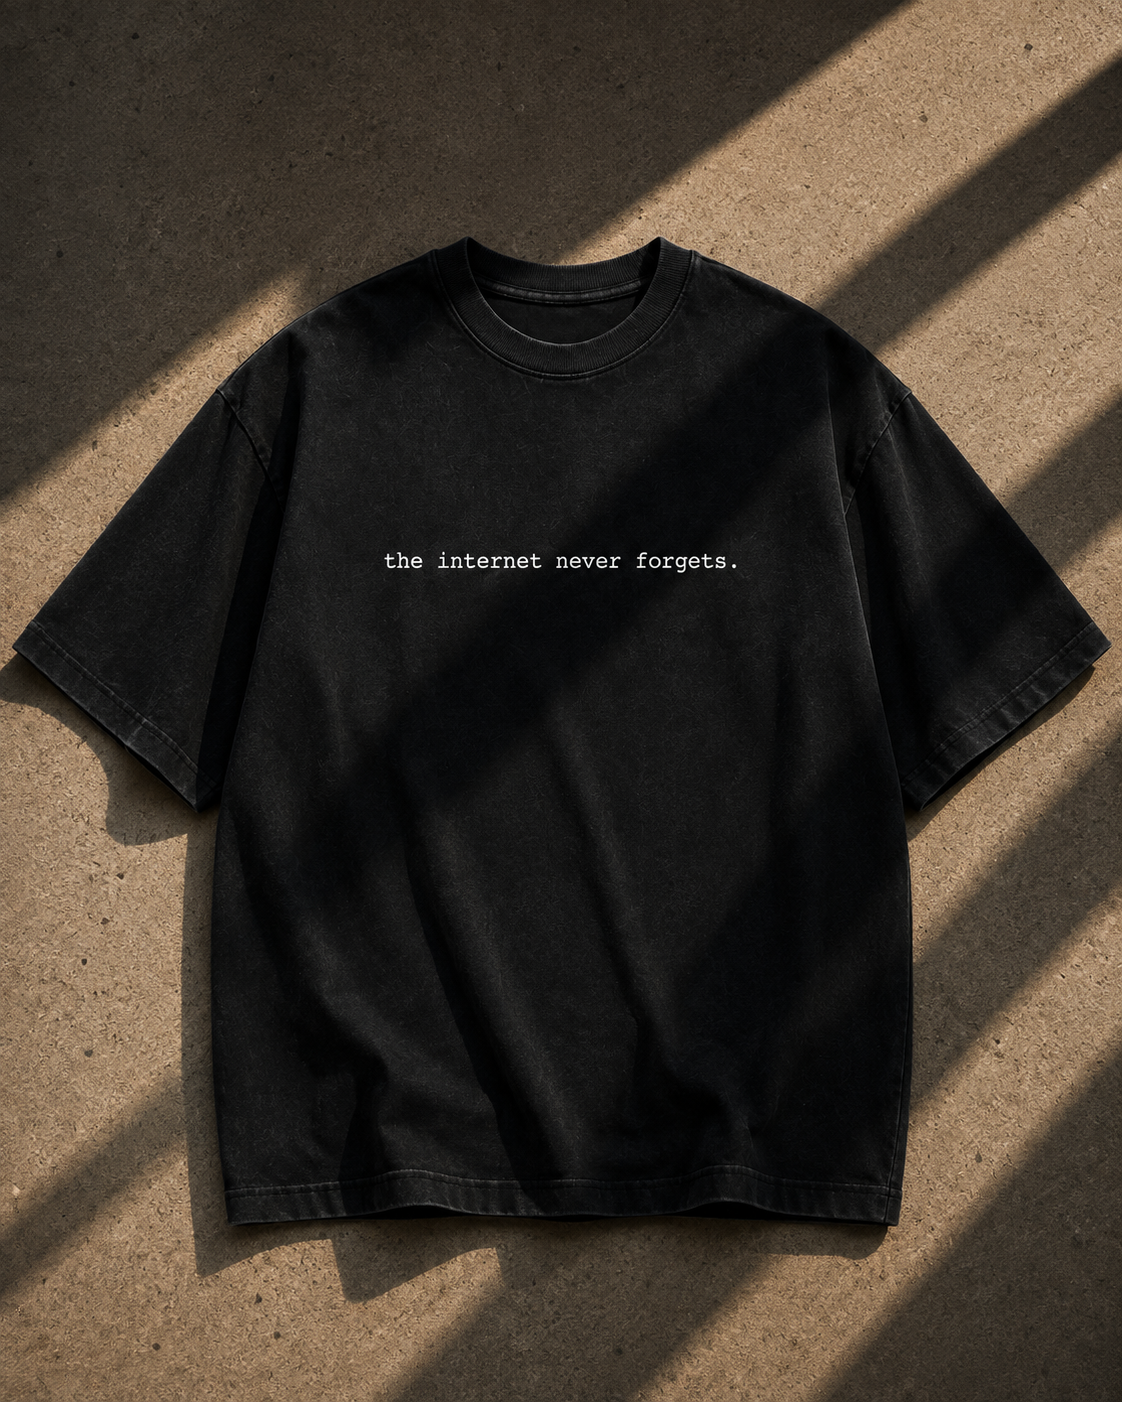
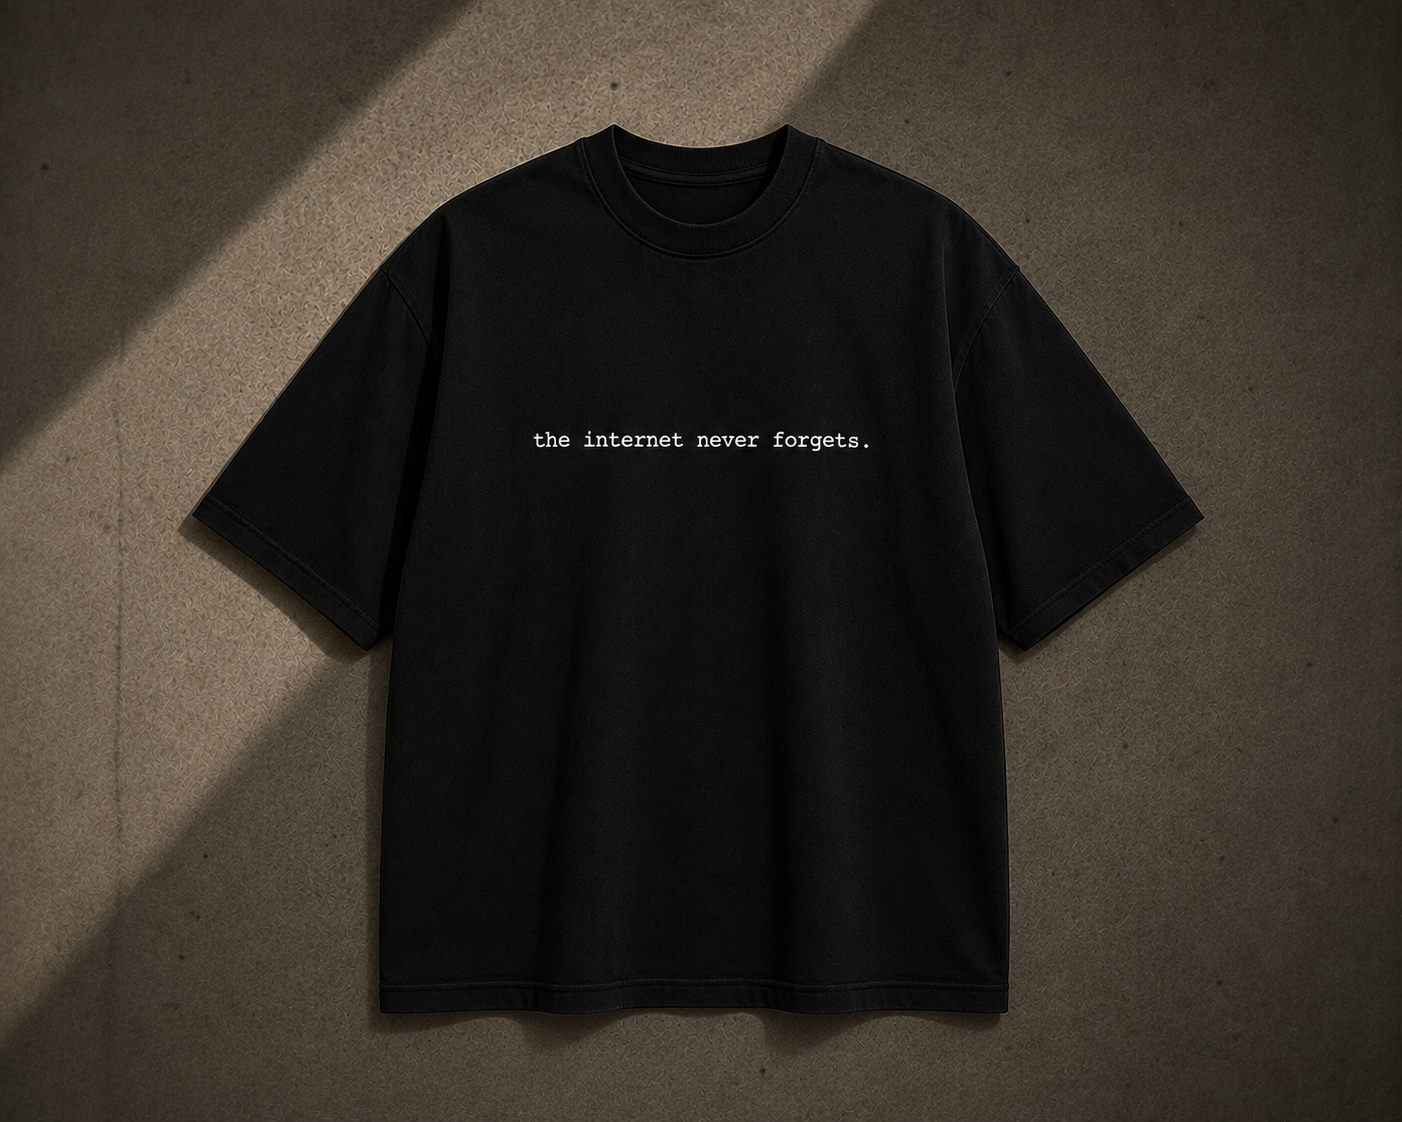
Refresh product details and contact information

diff --git a/index.html b/index.html
@@ -67,7 +67,7 @@
         .limited-offer { display: inline-block; margin-top: 7px; padding: 4px 6px; border: 1px solid #FF3B30; color: #FF3B30; font-size: 9px; letter-spacing: .07em; }
         .detail-copy { margin: 24px 0; font-size: 12px; line-height: 1.75; }
         .detail-list { margin: 0 0 24px; padding: 14px 0; border-top: 1px solid #D4C5A9; border-bottom: 1px solid #D4C5A9; font-size: 11px; line-height: 1.9; list-style: none; }
-        .size-picker { display: grid; grid-template-columns: repeat(4, 1fr); gap: 7px; margin: 10px 0 20px; }
+        .size-picker { display: grid; grid-template-columns: repeat(3, 1fr); gap: 7px; margin: 10px 0 20px; }
         .size-picker button { padding: 11px 5px; border: 1px solid #D4C5A9; background: #0A0A0A; color: #D4C5A9; cursor: pointer; font: inherit; font-size: 11px; }
         .size-picker button[aria-pressed="true"] { background: #D4C5A9; color: #0A0A0A; }
         .size-picker button:disabled { cursor: not-allowed; opacity: .45; text-decoration: line-through; }
@@ -203,7 +203,6 @@
                         <span class="border border-borderGray px-2 py-1 text-gray-400">S</span>
                         <span class="border border-borderGray px-2 py-1 text-gray-400">M</span>
                         <span class="border border-borderGray px-2 py-1 text-gray-400">L</span>
-                        <span class="border border-borderGray px-2 py-1 text-gray-400 line-through">XL / SOLD OUT</span>
                     </div>
                     <button type="button" class="w-full bg-white text-black text-xs font-bold py-3.5 text-center hover:bg-errorRed hover:text-systemBlack transition tracking-widest">VIEW T-SHIRT</button>
                 </div>
@@ -224,7 +223,6 @@
                         <span class="border border-borderGray px-2 py-1 text-gray-400">S</span>
                         <span class="border border-borderGray px-2 py-1 text-gray-400">M</span>
                         <span class="border border-borderGray px-2 py-1 text-gray-400">L</span>
-                        <span class="border border-borderGray px-2 py-1 text-gray-400 line-through">XL / SOLD OUT</span>
                     </div>
                     <button type="button" class="w-full bg-white text-black text-xs font-bold py-3.5 text-center hover:bg-errorRed hover:text-systemBlack transition tracking-widest">VIEW T-SHIRT</button>
                 </div>
@@ -233,19 +231,18 @@
             <article class="border border-borderGray bg-cardDark flex flex-col group product-trigger" data-product="internet" tabindex="0" role="button" aria-label="View The Internet Never Forgets t-shirt">
                 <div class="aspect-[4/5] bg-black relative overflow-hidden flex items-center justify-center border-b border-borderGray">
                     <img src="img/sku3-model-front.png" alt="The Internet Never Forgets t-shirt" class="w-full h-full object-cover">
-                    <div class="absolute top-3 left-3 bg-systemBlack border border-borderGray text-[10px] px-2 py-1 text-gray-400">FADED BLACK</div>
+                    <div class="absolute top-3 left-3 bg-systemBlack border border-borderGray text-[10px] px-2 py-1 text-gray-400">BLACK</div>
                 </div>
                 <div class="p-6 flex flex-col flex-grow">
                     <div class="flex justify-between items-start mb-2 gap-2">
                         <h3 class="font-bold text-sm tracking-wide">THE INTERNET NEVER FORGETS</h3>
                         <span class="text-errorRed font-bold text-sm text-right"><s class="text-gray-400 font-normal">₹1699</s><br>₹899</span>
                     </div>
-                    <p class="text-xs text-gray-400 mb-6 flex-grow">A browser-history warning for people who never clear the cache.</p>
+                    <p class="text-xs text-gray-400 mb-6 flex-grow">A clean black tee for people who know the browser history keeps receipts. No fade, no acid wash.</p>
                     <div class="flex gap-1.5 mb-6 text-[10px]">
                         <span class="border border-borderGray px-2 py-1 text-gray-400">S</span>
                         <span class="border border-borderGray px-2 py-1 text-gray-400">M</span>
                         <span class="border border-borderGray px-2 py-1 text-gray-400">L</span>
-                        <span class="border border-borderGray px-2 py-1 text-gray-400 line-through">XL / SOLD OUT</span>
                     </div>
                     <button type="button" class="w-full bg-white text-black text-xs font-bold py-3.5 text-center hover:bg-errorRed hover:text-systemBlack transition tracking-widest">VIEW T-SHIRT</button>
                 </div>
@@ -262,7 +259,7 @@
                         <span class="text-errorRed font-bold text-sm text-right"><s class="text-gray-400 font-normal">₹1699</s><br>₹999</span>
                     </div>
                     <p class="text-xs text-gray-400 mb-6 flex-grow">“Sonam, it’s done, bro.” Minimal front. Very non-minimal back.</p>
-                    <div class="flex gap-1.5 mb-6 text-[10px]"><span class="border border-borderGray px-2 py-1 text-gray-400">S</span><span class="border border-borderGray px-2 py-1 text-gray-400">M</span><span class="border border-borderGray px-2 py-1 text-gray-400">L</span><span class="border border-borderGray px-2 py-1 text-gray-400 line-through">XL / SOLD OUT</span></div>
+                    <div class="flex gap-1.5 mb-6 text-[10px]"><span class="border border-borderGray px-2 py-1 text-gray-400">S</span><span class="border border-borderGray px-2 py-1 text-gray-400">M</span><span class="border border-borderGray px-2 py-1 text-gray-400">L</span></div>
                     <button type="button" class="w-full bg-white text-black text-xs font-bold py-3.5 text-center hover:bg-errorRed hover:text-systemBlack transition tracking-widest">VIEW T-SHIRT</button>
                 </div>
             </article>
@@ -295,8 +292,8 @@
             </div>
         </div>
         <div class="flex flex-col md:items-end justify-center text-xs text-gray-500 gap-2">
-            <p>SUPPORT: SUPPORT@BLUNNT.IN</p>
-            <p>WHATSAPP: +91 99090 XXXXX</p>
+            <p>SUPPORT: CONTACT@BLUNNT.STORE</p>
+            <p>WHATSAPP: +91 75066 35511</p>
             <p class="text-gray-600 mt-2">HOSTED ON VERCEL // SECURED BY RAZORPAY</p>
         </div>
     </footer>
@@ -324,7 +321,7 @@
                     <p class="detail-copy" id="detail-description"></p>
                     <ul class="detail-list"><li>• 240 GSM heavyweight cotton</li><li>• Oversized unisex fit</li><li>• Screen-printed front and back</li><li>• Ships in 2–4 business days</li></ul>
                     <p class="text-xs tracking-widest">SELECT YOUR SIZE</p>
-                    <div class="size-picker" id="size-picker" aria-label="Choose a size"><button type="button" data-size="S">S</button><button type="button" data-size="M">M</button><button type="button" data-size="L">L</button><button type="button" data-size="XL" disabled aria-label="XL sold out">XL SOLD OUT</button></div>
+                    <div class="size-picker" id="size-picker" aria-label="Choose a size"><button type="button" data-size="S">S</button><button type="button" data-size="M">M</button><button type="button" data-size="L">L</button></div>
                     <p class="size-message" id="size-message" role="status"></p>
                     <button class="detail-action" id="start-checkout" type="button">ADD TO CART</button>
                 </div>
@@ -380,8 +377,8 @@
         const catalogue = {
             coke: { name: 'MENTALLY HERE RN', price: 999, mrp: 1699, description: 'Heavyweight red cotton, front-and-back artwork, and a thought that should have stayed in drafts.', views: ['FRONT MODEL', 'BACK DETAIL', 'FLAT FRONT', 'FLAT BACK'], images: ['img/sku1-model-front.png', 'img/sku1-model-back.png', 'img/sku1-flat-front.png', 'img/sku1-flat-back.png'] },
             spotify: { name: "I MOVED ON / MY SPOTIFY DIDN'T", price: 999, mrp: 1699, description: 'Deadpan front text with an oversized streaming logotype on the back. Your top genre remains emotional administrative work.', views: ['FRONT MODEL', 'BACK MODEL', 'FLAT FRONT', 'FLAT BACK'], images: ['img/sku2-model-front.png', 'img/sku2-model-back.png', 'img/sku2-flat-front.png', 'img/sku2-flat-back.png'] },
-            internet: { name: 'THE INTERNET NEVER FORGETS', price: 899, mrp: 1699, description: 'A browser-history warning on a heavyweight oversized blank. Some uploads are forever.', views: ['FRONT MODEL', 'BACK MODEL', 'FLAT FRONT', 'FLAT BACK'], images: ['img/sku3-model-front.png', 'img/sku3-model-back.png', 'img/sku3-flat-front.png', 'img/sku3-flat-back.png'] },
-            finalcut: { name: 'FINAL CUT', price: 999, mrp: 1699, description: '“Sonam, it’s done, bro.” A calm front, an extremely committed back, and no director’s commentary.', views: ['FRONT MODEL', 'BACK MODEL', 'FLAT FRONT'], images: ['img/sku4-model-front.png', 'img/sku4-model-back.png', 'img/sku4-flat-front.png'] }
+            internet: { name: 'THE INTERNET NEVER FORGETS', price: 899, mrp: 1699, description: 'A clean black oversized tee with a small front statement. No fade, no acid wash—just a reminder that the internet keeps receipts.', views: ['FRONT MODEL', 'BACK MODEL', 'FLAT FRONT', 'FLAT BACK'], images: ['img/sku3-model-front.png', 'img/sku3-model-back.png', 'img/sku3-flat-front.png', 'img/sku3-flat-back.png'] },
+            finalcut: { name: 'FINAL CUT', price: 999, mrp: 1699, description: '“Sonam, it’s done, bro.” A calm front, an extremely committed back, and no director’s commentary.', views: ['FRONT MODEL', 'BACK MODEL', 'FLAT FRONT', 'FLAT BACK'], images: ['img/sku4-model-front.png', 'img/sku4-model-back.png', 'img/sku4-flat-front.png', 'img/sku4-flat-back.png'] }
         };
         const productModal = document.querySelector('#product-modal');
         const cartModal = document.querySelector('#cart-modal');
@@ -424,10 +421,7 @@
             document.querySelector('#detail-price').innerHTML = `₹${selectedProduct.price}${selectedProduct.mrp ? ` <span class="detail-mrp">₹${selectedProduct.mrp}</span>` : ''}`;
             document.querySelector('#limited-offer').hidden = !selectedProduct.mrp;
             document.querySelector('#detail-description').textContent = selectedProduct.description;
-            document.querySelectorAll('#size-picker button').forEach(button => {
-                button.setAttribute('aria-pressed', 'false');
-                button.disabled = button.dataset.size === 'XL';
-            });
+            document.querySelectorAll('#size-picker button').forEach(button => button.setAttribute('aria-pressed', 'false'));
             document.querySelector('#size-message').textContent = '';
             renderSlide();
             setModalState(productModal, true);
@@ -461,7 +455,6 @@
         });
         document.querySelector('#size-picker').addEventListener('click', event => {
             const button = event.target.closest('[data-size]'); if (!button) return;
-            if (button.disabled) { document.querySelector('#size-message').textContent = 'XL IS OFFLINE. THE DROP MOVED FAST.'; return; }
             selectedSize = button.dataset.size;
             document.querySelectorAll('#size-picker button').forEach(item => item.setAttribute('aria-pressed', item === button));
             document.querySelector('#size-message').textContent = '';
